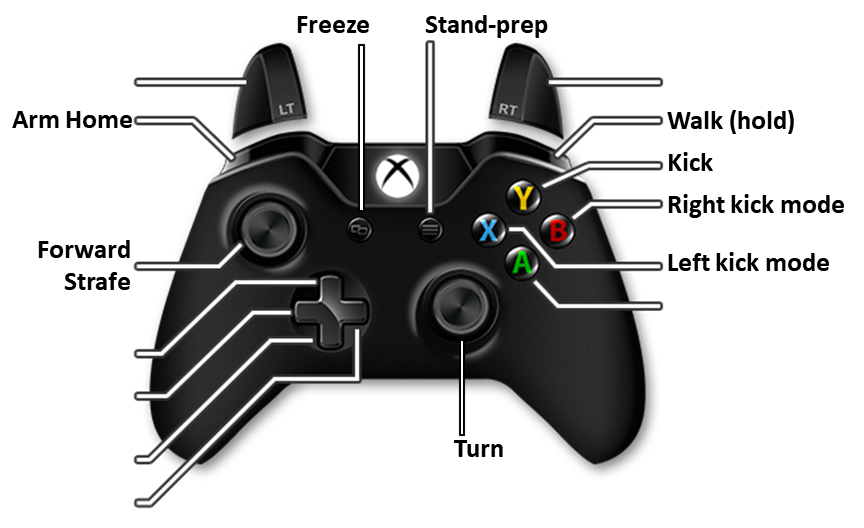
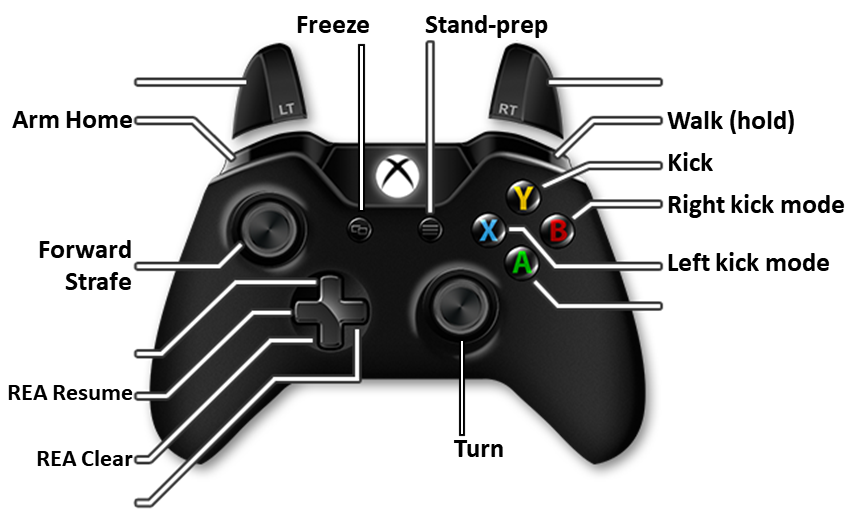
Added REA commands and updated the XBox controls layouts.

diff --git a/ihmc-avatar-interfaces/src/main/java/us/ihmc/avatar/joystickBasedJavaFXController/StepGeneratorJavaFXController.java b/ihmc-avatar-interfaces/src/main/java/us/ihmc/avatar/joystickBasedJavaFXController/StepGeneratorJavaFXController.java
@@ -1,6 +1,37 @@
 package us.ihmc.avatar.joystickBasedJavaFXController;
 
-import controller_msgs.msg.dds.*;
+import static us.ihmc.avatar.joystickBasedJavaFXController.StepGeneratorJavaFXTopics.SteppingParameters;
+import static us.ihmc.avatar.joystickBasedJavaFXController.StepGeneratorJavaFXTopics.WalkingTrajectoryDuration;
+import static us.ihmc.avatar.joystickBasedJavaFXController.XBoxOneJavaFXController.ButtonBState;
+import static us.ihmc.avatar.joystickBasedJavaFXController.XBoxOneJavaFXController.ButtonLeftBumperState;
+import static us.ihmc.avatar.joystickBasedJavaFXController.XBoxOneJavaFXController.ButtonRightBumperState;
+import static us.ihmc.avatar.joystickBasedJavaFXController.XBoxOneJavaFXController.ButtonSelectState;
+import static us.ihmc.avatar.joystickBasedJavaFXController.XBoxOneJavaFXController.ButtonStartState;
+import static us.ihmc.avatar.joystickBasedJavaFXController.XBoxOneJavaFXController.ButtonXState;
+import static us.ihmc.avatar.joystickBasedJavaFXController.XBoxOneJavaFXController.ButtonYState;
+import static us.ihmc.avatar.joystickBasedJavaFXController.XBoxOneJavaFXController.DPadDownState;
+import static us.ihmc.avatar.joystickBasedJavaFXController.XBoxOneJavaFXController.DPadLeftState;
+import static us.ihmc.avatar.joystickBasedJavaFXController.XBoxOneJavaFXController.LeftStickXAxis;
+import static us.ihmc.avatar.joystickBasedJavaFXController.XBoxOneJavaFXController.LeftStickYAxis;
+import static us.ihmc.avatar.joystickBasedJavaFXController.XBoxOneJavaFXController.RightStickXAxis;
+
+import java.util.ArrayList;
+import java.util.List;
+import java.util.concurrent.Executors;
+import java.util.concurrent.ScheduledExecutorService;
+import java.util.concurrent.TimeUnit;
+import java.util.concurrent.atomic.AtomicBoolean;
+import java.util.concurrent.atomic.AtomicReference;
+import java.util.stream.Collectors;
+
+import controller_msgs.msg.dds.CapturabilityBasedStatus;
+import controller_msgs.msg.dds.FootstepDataListMessage;
+import controller_msgs.msg.dds.FootstepDataMessage;
+import controller_msgs.msg.dds.FootstepStatusMessage;
+import controller_msgs.msg.dds.PauseWalkingMessage;
+import controller_msgs.msg.dds.PlanarRegionsListMessage;
+import controller_msgs.msg.dds.REAStateRequestMessage;
+import controller_msgs.msg.dds.WalkingControllerFailureStatusMessage;
 import javafx.animation.AnimationTimer;
 import javafx.beans.property.DoubleProperty;
 import javafx.beans.property.SimpleDoubleProperty;
@@ -50,19 +81,6 @@ import us.ihmc.ros2.Ros2Node;
 import us.ihmc.yoVariables.providers.BooleanProvider;
 import us.ihmc.yoVariables.providers.DoubleProvider;
 
-import java.util.ArrayList;
-import java.util.List;
-import java.util.concurrent.Executors;
-import java.util.concurrent.ScheduledExecutorService;
-import java.util.concurrent.TimeUnit;
-import java.util.concurrent.atomic.AtomicBoolean;
-import java.util.concurrent.atomic.AtomicReference;
-import java.util.stream.Collectors;
-
-import static us.ihmc.avatar.joystickBasedJavaFXController.StepGeneratorJavaFXTopics.SteppingParameters;
-import static us.ihmc.avatar.joystickBasedJavaFXController.StepGeneratorJavaFXTopics.WalkingTrajectoryDuration;
-import static us.ihmc.avatar.joystickBasedJavaFXController.XBoxOneJavaFXController.*;
-
 public class StepGeneratorJavaFXController
 {
    private final ScheduledExecutorService executorService = Executors.newSingleThreadScheduledExecutor(ThreadTools.getNamedThreadFactory("FootstepPublisher"));
@@ -90,15 +108,11 @@ public class StepGeneratorJavaFXController
    private final SideDependentList<AtomicBoolean> isFootInSupport = new SideDependentList<>(isLeftFootInSupport, isRightFootInSupport);
    private final BooleanProvider isInDoubleSupport = () -> isLeftFootInSupport.get() && isRightFootInSupport.get();
    private final DoubleProvider stepTime;
-
-   private static final double collisionBoxDepth = 0.45;
-   private static final double collisionBoxWidth = 0.85;
-   private static final double collisionBoxHeight = 1.0;
-   private final BoundingBoxCollisionDetector collisionDetector = new BoundingBoxCollisionDetector(collisionBoxDepth, collisionBoxWidth, collisionBoxHeight, 0.01);
+   private final BoundingBoxCollisionDetector collisionDetector;
 
    public enum SecondaryControlOption
    {
-      KICK, PUNCH
+      KICK, PUNCH, NONE
    };
 
    private SecondaryControlOption activeSecondaryControlOption = SecondaryControlOption.KICK;
@@ -108,6 +122,7 @@ public class StepGeneratorJavaFXController
 
    private final IHMCROS2Publisher<FootstepDataListMessage> footstepPublisher;
    private final IHMCROS2Publisher<PauseWalkingMessage> pauseWalkingPublisher;
+   private final IHMCROS2Publisher<REAStateRequestMessage> reaStateRequestPublisher;
 
    private final AtomicReference<PlanarRegionsListMessage> planarRegionsListMessage = new AtomicReference<>(null);
    private final AtomicReference<PlanarRegionsList> planarRegionsList = new AtomicReference<>(null);
@@ -148,10 +163,12 @@ public class StepGeneratorJavaFXController
                                            s -> continuousStepGenerator.consumeFootstepStatus(s.takeNextData()));
       ROS2Tools.createCallbackSubscription(ros2Node,
                                            PlanarRegionsListMessage.class,
-                                           REACommunicationProperties.publisherTopicNameGenerator, s -> planarRegionsListMessage.set(s.takeNextData()));
+                                           REACommunicationProperties.publisherTopicNameGenerator,
+                                           s -> planarRegionsListMessage.set(s.takeNextData()));
 
       pauseWalkingPublisher = ROS2Tools.createPublisher(ros2Node, PauseWalkingMessage.class, controllerSubGenerator);
       footstepPublisher = ROS2Tools.createPublisher(ros2Node, FootstepDataListMessage.class, controllerSubGenerator);
+      reaStateRequestPublisher = ROS2Tools.createPublisher(ros2Node, REAStateRequestMessage.class, REACommunicationProperties.subscriberTopicNameGenerator);
 
       trajectoryDuration = messager.createInput(WalkingTrajectoryDuration, 1.0);
       stepTime = () -> stepParametersReference.get().getSwingDuration() + stepParametersReference.get().getTransferDuration();
@@ -164,14 +181,14 @@ public class StepGeneratorJavaFXController
             try
             {
                PlanarRegionsListMessage latestMessage = planarRegionsListMessage.getAndSet(null);
-               if(latestMessage != null)
+               if (latestMessage != null)
                {
                   PlanarRegionsList planarRegionsList = PlanarRegionMessageConverter.convertToPlanarRegionsList(latestMessage);
                   snapAndWiggleSingleStep.setPlanarRegions(planarRegionsList);
-                  collisionDetector.setPlanarRegionsList(new PlanarRegionsList(planarRegionsList.getPlanarRegionsAsList()
-                                                                                  .stream()
-                                                                                  .filter(region -> region.getConvexHull().getArea() >= parameters.getMinPlanarRegionArea())
-                                                                                  .collect(Collectors.toList())));
+                  collisionDetector.setPlanarRegionsList(new PlanarRegionsList(planarRegionsList.getPlanarRegionsAsList().stream()
+                                                                                                .filter(region -> region.getConvexHull()
+                                                                                                                        .getArea() >= parameters.getMinPlanarRegionArea())
+                                                                                                .collect(Collectors.toList())));
                   StepGeneratorJavaFXController.this.planarRegionsList.set(planarRegionsList);
                }
 
@@ -209,11 +226,15 @@ public class StepGeneratorJavaFXController
          if (state == ButtonState.PRESSED)
             sendArmHomeConfiguration(RobotSide.values);
       });
+
       messager.registerTopicListener(ButtonRightBumperState, state -> startWalking(state == ButtonState.PRESSED));
       messager.registerTopicListener(ButtonRightBumperState, state -> stopWalking(state == ButtonState.RELEASED));
+
       messager.registerJavaFXSyncedTopicListener(LeftStickYAxis, this::updateForwardVelocity);
       messager.registerJavaFXSyncedTopicListener(LeftStickXAxis, this::updateLateralVelocity);
       messager.registerJavaFXSyncedTopicListener(RightStickXAxis, this::updateTurningVelocity);
+      messager.registerTopicListener(DPadLeftState, state -> sendREAResumeRequest());
+      messager.registerTopicListener(DPadDownState, state -> sendREAClearRequest());
 
       ROS2Tools.createCallbackSubscription(ros2Node, WalkingControllerFailureStatusMessage.class, controllerPubGenerator, s -> stopWalking(true));
       messager.registerTopicListener(ButtonSelectState, state -> stopWalking(true));
@@ -226,6 +247,12 @@ public class StepGeneratorJavaFXController
          isLeftFootInSupport.set(!status.getLeftFootSupportPolygon2d().isEmpty());
          isRightFootInSupport.set(!status.getRightFootSupportPolygon2d().isEmpty());
       });
+
+      double collisionBoxDepth = 0.65;
+      double collisionBoxWidth = 1.15;
+      double collisionBoxHeight = 1.0;
+      double collisionXYProximityCheck = 0.01;
+      collisionDetector = new BoundingBoxCollisionDetector(collisionBoxDepth, collisionBoxWidth, collisionBoxHeight, collisionXYProximityCheck);
    }
 
    private FramePose3DReadOnly adjustFootstep(FramePose2DReadOnly footstepPose, RobotSide footSide)
@@ -352,6 +379,20 @@ public class StepGeneratorJavaFXController
          sendPauseMessage();
    }
 
+   private void sendREAClearRequest()
+   {
+      REAStateRequestMessage clearRequest = new REAStateRequestMessage();
+      clearRequest.setRequestClear(true);
+      reaStateRequestPublisher.publish(clearRequest);
+   }
+
+   private void sendREAResumeRequest()
+   {
+      REAStateRequestMessage resumeRequest = new REAStateRequestMessage();
+      resumeRequest.setRequestResume(true);
+      reaStateRequestPublisher.publish(resumeRequest);
+   }
+
    private Node createFootstep(FootstepDataMessage footstepDataMessage)
    {
       RobotSide footSide = RobotSide.fromByte(footstepDataMessage.getRobotSide());
@@ -376,7 +417,7 @@ public class StepGeneratorJavaFXController
 
       double soleYaw = solePose.getYaw();
       double lateralOffset = robotSide.negateIfLeftSide(stanceWidth);
-      double offsetX = - lateralOffset * Math.sin(soleYaw);
+      double offsetX = -lateralOffset * Math.sin(soleYaw);
       double offsetY = lateralOffset * Math.cos(soleYaw);
       collisionDetector.setBoxPose(solePose.getX() + offsetX, solePose.getY() + offsetY, solePose.getZ() + heightOffset, soleYaw);
 
@@ -477,7 +518,7 @@ public class StepGeneratorJavaFXController
    public void start()
    {
       animationTimer.start();
-      executorService.scheduleAtFixedRate(this::sendFootsteps, 0, 100, TimeUnit.MILLISECONDS);
+      executorService.scheduleAtFixedRate(this::sendFootsteps, 0, 500, TimeUnit.MILLISECONDS);
    }
 
    public void stop()

diff --git a/ihmc-avatar-interfaces/src/main/java/us/ihmc/avatar/joystickBasedJavaFXController/StepGeneratorParametersPaneController.java b/ihmc-avatar-interfaces/src/main/java/us/ihmc/avatar/joystickBasedJavaFXController/StepGeneratorParametersPaneController.java
@@ -58,6 +58,7 @@ public class StepGeneratorParametersPaneController
 
    private final Image kickImageLayout = new Image(getClass().getResourceAsStream("XBoxOneControllerStepMapping_kick.png"));
    private final Image punchImageLayout = new Image(getClass().getResourceAsStream("XBoxOneControllerStepMapping_punch.png"));
+   private final Image noneImageLayout = new Image(getClass().getResourceAsStream("XBoxOneControllerStepMapping_noSecondaryOption.png"));
 
    private final JoystickStepParameters defaultParameters = new JoystickStepParameters();
    private final JoystickStepParametersProperty stepParametersProperty = new JoystickStepParametersProperty(this, "stepParameters");
@@ -172,6 +173,8 @@ public class StepGeneratorParametersPaneController
       case PUNCH:
          controlLayoutImageView.setImage(punchImageLayout);
          break;
+      case NONE:
+         controlLayoutImageView.setImage(noneImageLayout);
       default:
          LogTools.error("Unhandled option: " + option);
          break;

diff --git a/valkyrie/src/main/java/us/ihmc/valkyrie/joystick/ValkyrieJoystickBasedSteppingApplication.java b/valkyrie/src/main/java/us/ihmc/valkyrie/joystick/ValkyrieJoystickBasedSteppingApplication.java
@@ -57,7 +57,7 @@ public class ValkyrieJoystickBasedSteppingApplication extends Application
                                            kickAndPunchMessenger,
                                            kickAndPunchMessenger,
                                            footPolygons);
-      ui.setActiveSecondaryControlOption(SecondaryControlOption.PUNCH);
+      ui.setActiveSecondaryControlOption(SecondaryControlOption.NONE);
    }
 
    @Override
